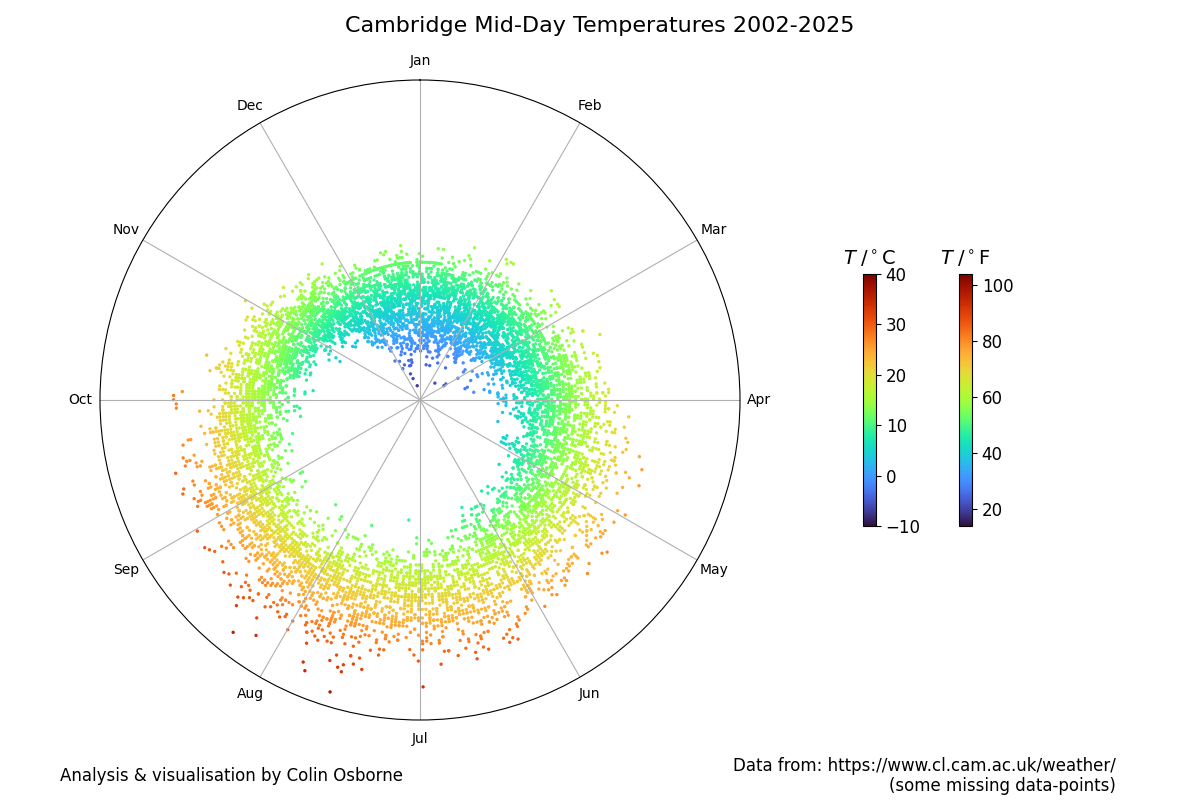
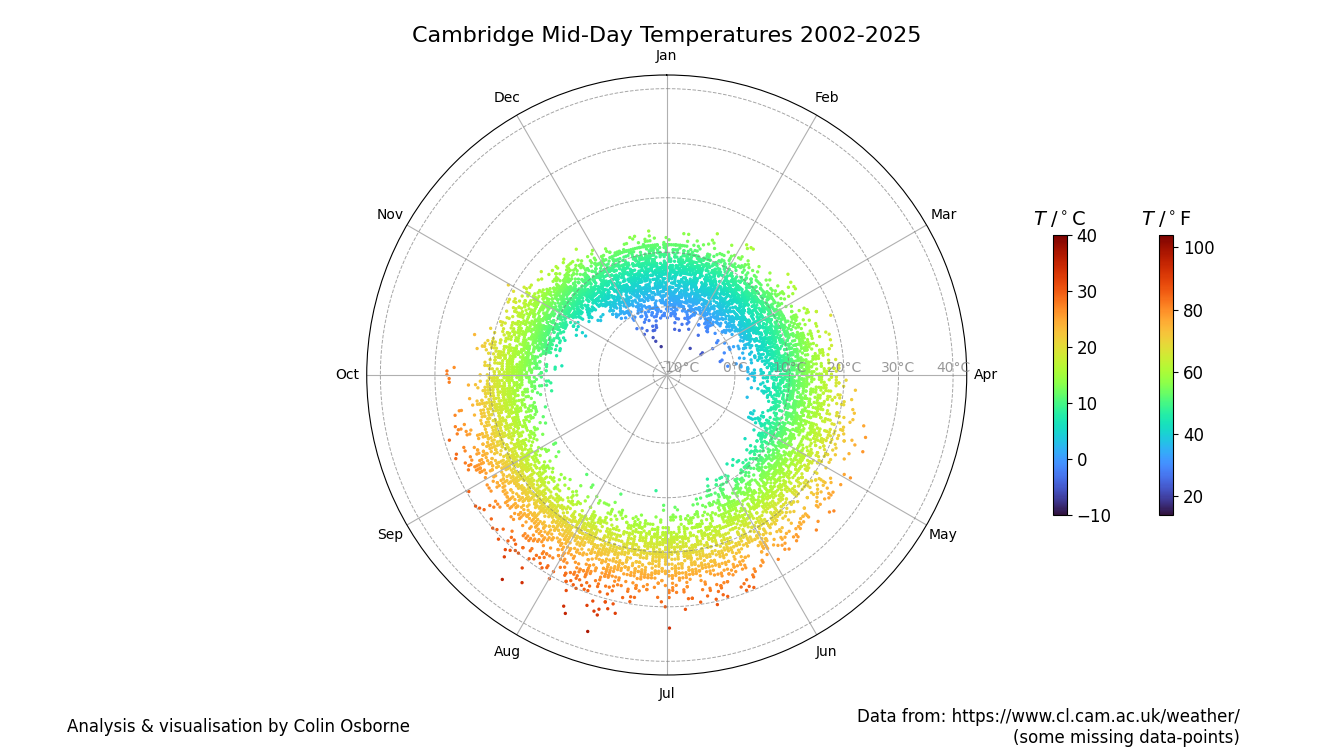
Updated layout to match widescreen slide

diff --git a/README.md b/README.md
@@ -1,3 +1,4 @@
+
 # Cambridge Weather Data Analysis
 
 This project downloads, caches, and visualizes mid-day temperature data for Cambridge, UK, using data from the University of Cambridge Computer Laboratory weather station.
@@ -7,6 +8,9 @@ This project downloads, caches, and visualizes mid-day temperature data for Camb
 - Only fetches missing or outdated data from the web
 - Robust error handling and progress reporting
 - Publication-quality polar plots with dual colorbars (Celsius and Fahrenheit)
+- Colorbars are now included within the page boundaries for publication-ready output
+- Reduced vertical gap between polar plots for a more compact layout
+- Larger, clearer colorbars for improved readability
 - Modular, well-documented code with type hints
 
 ## Requirements
@@ -35,10 +39,15 @@ Open the `cambridge_weather.ipynb` notebook in Jupyter or VS Code and run all ce
 ## Output
 - PNG images of the polar plots are saved in the `output/` directory:
 
-	output/CambridgeMidDayTemp_2002_2025.png  — Single-year polar plot
-	output/CambridgeMidDayTemps_2002_2025.png — Multi-year polar subplots
+    output/CambridgeMidDayTemp_2002_2025.png  — Single-year polar plot
+    output/CambridgeMidDayTemps_2002_2025.png — Multi-year polar subplots
 
 You can view the plots directly in the notebook output, or find the saved images in the `output/` folder after running all cells.
+
+**Layout improvements:**
+- Colorbars are now fully contained within the page size (`page_width_cm` × `page_height_cm`)
+- The vertical gap between polar plots has been reduced for a more compact grid
+- Colorbars are larger and easier to read
 
 ![Single-year polar plot](output/CambridgeMidDayTemp_2002_2025.png)
 
